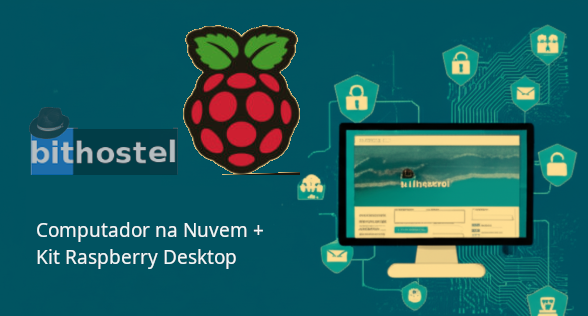
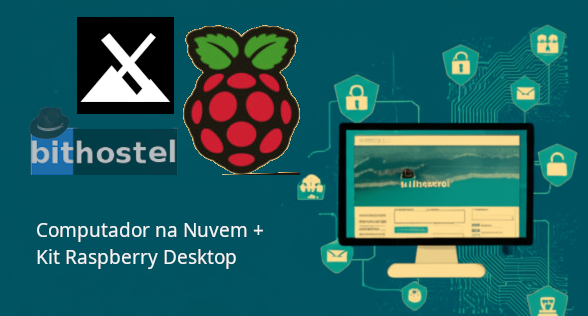
gg

Changed region(s): [[0.1224, 0.0285, 0.3061, 0.3703]]

diff --git a/cloud.html b/cloud.html
@@ -661,7 +661,8 @@
                                 <li>Teclado e Mouse Raspberry Pi</li>
                                 <li>Fonte de Alimentação e Dissipador</li>
                                 <li>Cabo HDMI e Case oficial</li>
-                                <li>Cartão de Memória com Sistema</li>
+                                <li>Cartão de Memória com Sistema MX Linux para Raspberry</li>
+                                <li>Túnel de acesso seguro através de sistema OpenVPN configurados</li>
                                 <li>Compatível com Computador na Nuvem (MX Linux / Windows 10)</li>
                             </ul>
                         </div>
@@ -676,7 +677,8 @@
                                 <li>Teclado e Mouse Raspberry Pi</li>
                                 <li>Fonte de Alimentação e Dissipador</li>
                                 <li>Cabo HDMI e Case oficial</li>
-                                <li>Cartão de Memória com Sistema</li>
+                                <li>Cartão de Memória com Sistema MX Linux para Raspberry</li>
+                                <li>Túnel de acesso seguro através de sistema OpenVPN configurados</li>
                                 <li>Compatível com Computador na Nuvem (MX Linux / Windows 10)</li>
                             </ul>
                         </div>
